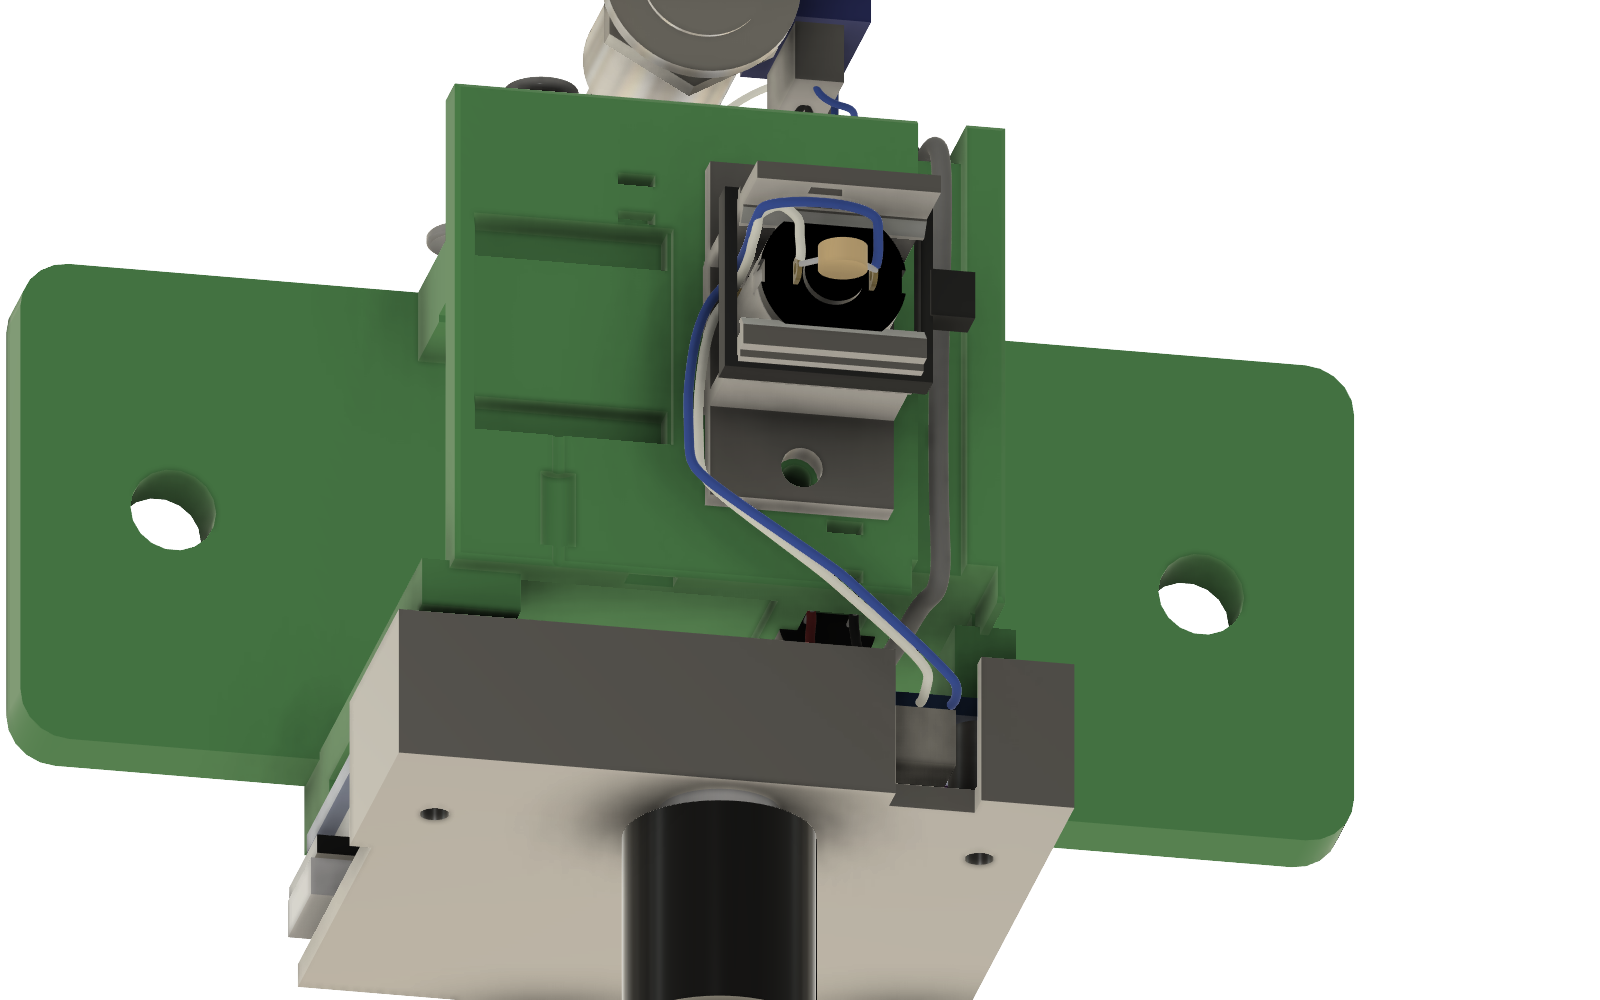
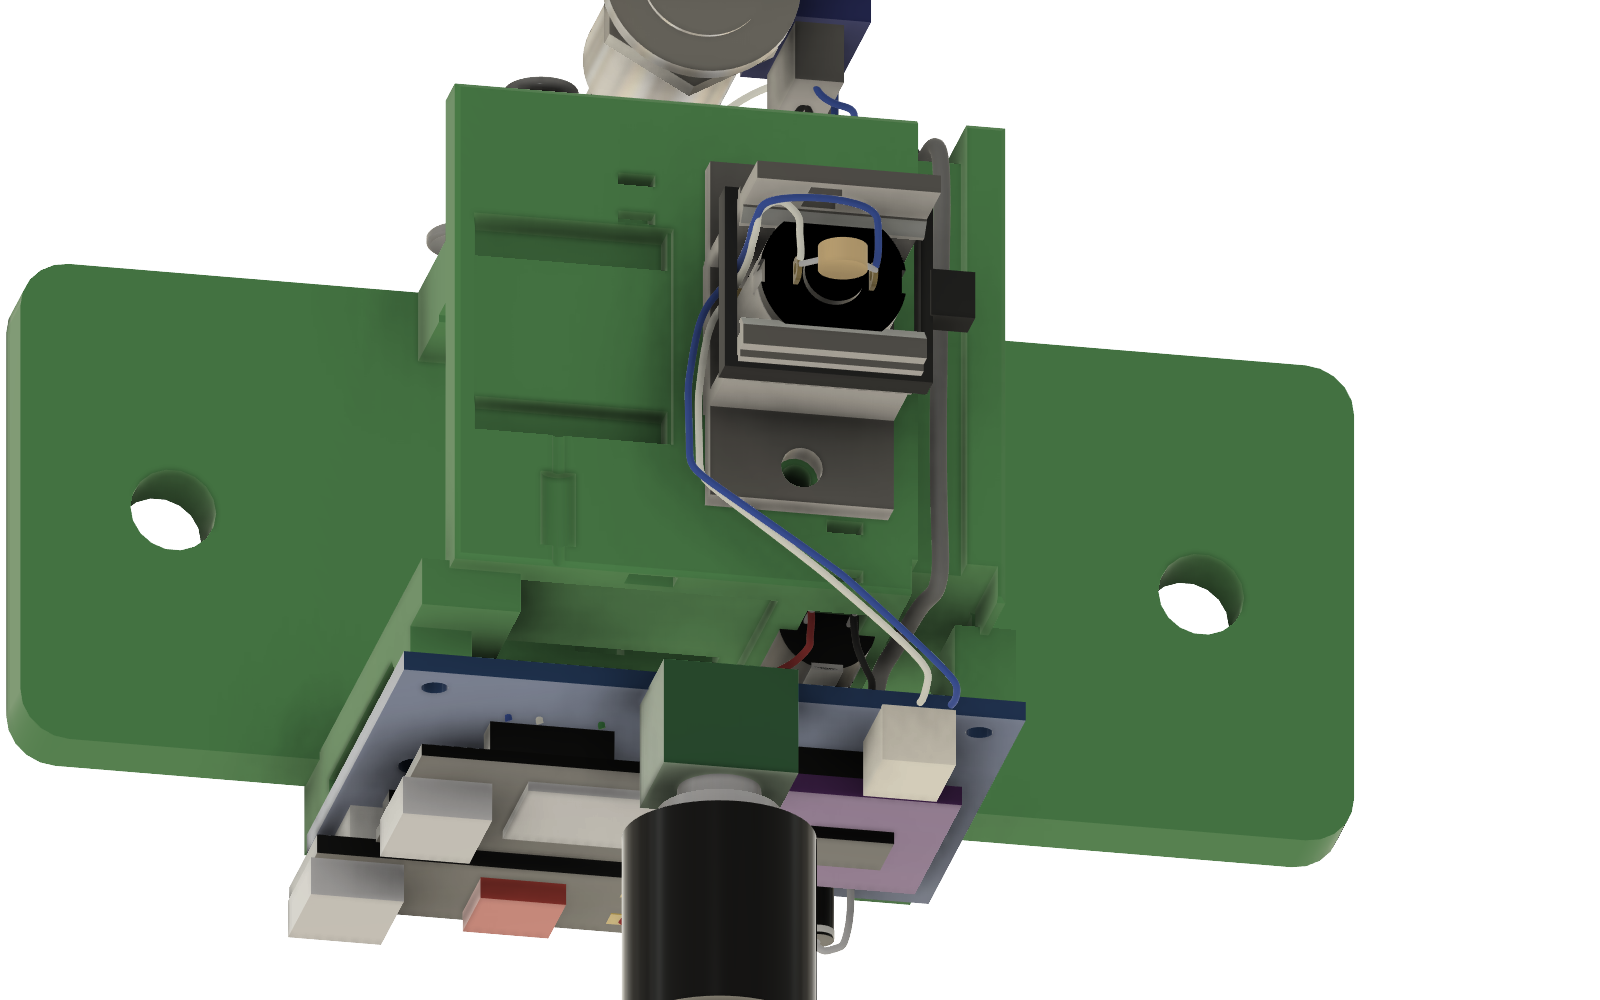
N20: all wiring 30 AWG stranded, in the colours on hand
Every wire, including the motor pair, power jumpers and underside links,
is now 30 AWG stranded (0.6 mm in wires.py). W5, W12, W13 and W21 are
green, blue, white and yellow. wiring.md adds tinning, flat-link and
current notes. The motor pair sits flat on the cartridge's wire clamp;
cut lengths are unchanged. Hole map and wire renders redone.

diff --git a/drives/n20/cad/fusion/wires.py b/drives/n20/cad/fusion/wires.py
@@ -22,8 +22,8 @@ COLORS = {
     'blue': (40, 90, 205), 'gray': (120, 120, 120), 'tan': (214, 184, 130), 'tin': (195, 195, 200),
 }
 
-# name, color, diameter mm, waypoints (mm)
-BUNDLE_TRUNK = ('Control harness to J3 (4 x 30 AWG)', 'gray', 1.6, 'raw', [
+# name, color, diameter mm, waypoints (mm). All wire is 30 AWG stranded, about 0.6 mm over the insulation.
+BUNDLE_TRUNK = ('Control harness to J3 (4 x 30 AWG)', 'gray', 1.4, 'raw', [
     (-6.75, 22.9, 23.0), (-6.75, 22.0, 21.6), (-6.9, 21.8, 18.0), (-7.0, 21.8, 4.0), (-7.6, 21.8, 0.0), (-10.0, 21.8, -2.2),
     (-11.3, 20.7, -2.6), (-11.5, 19.4, -4.2), (-11.6, 19.4, -6.4),
     (-11.8, 19.3, -8.4), (-12.0, 18.0, -9.35), (-12.0, 5.0, -9.35), (-12.0, -15.0, -9.35), (-12.0, -18.2, -9.3),
@@ -51,23 +51,23 @@ PD_P, PD_N = W(-16.5, 0.3, 4.7), W(-11.0, 0.3, 4.7)       # U1's + and - pads (s
 
 WIRES = [
     # --- power: U1's pads down to the buses (5V row 7, GND row 8); C1 from its seat in behind to C7 / B4
-    ('W1 U1 + to 5V bus (A7)', 'red', 0.8, [PD_P, W(-16.0, -1.8, 5.2), W(-14.6, -4.2, 2.6), hole('A', 7, 0.9), hole('A', 7, -0.8)]),
-    ('W2 U1 GND to GND bus (A8)', 'black', 0.8, [PD_N, W(-12.0, -1.6, 5.2), W(-13.4, -2.4, 2.6), hole('A', 8, 0.9), hole('A', 8, -0.8)]),
-    ('L1 C1 + to 5V bus (C7)', 'red', 0.8, [(-2.75, -19.78, -3.1), (-2.75, -21.6, -3.15), (-2.4, -23.6, -3.6), (0.22, -24.8, -1.0),
+    ('W1 U1 + to 5V bus (A7)', 'red', 0.6, [PD_P, W(-16.0, -1.8, 5.2), W(-14.6, -4.2, 2.6), hole('A', 7, 0.9), hole('A', 7, -0.8)]),
+    ('W2 U1 GND to GND bus (A8)', 'black', 0.6, [PD_N, W(-12.0, -1.6, 5.2), W(-13.4, -2.4, 2.6), hole('A', 8, 0.9), hole('A', 8, -0.8)]),
+    ('L1 C1 + to 5V bus (C7)', 'red', 0.6, [(-2.75, -19.78, -3.1), (-2.75, -21.6, -3.15), (-2.4, -23.6, -3.6), (0.22, -24.8, -1.0),
         (0.22, -24.8, 22.3), back('C', 7, -1.0), hole('C', 7, 0.4)]),
-    ('L2 C1 - to GND (B4)', 'black', 0.8, [(-6.25, -19.78, -3.1), (-6.3, -21.6, -3.2), (-6.6, -23.6, -3.8), (-8.4, -24.8, -1.0),
+    ('L2 C1 - to GND (B4)', 'black', 0.6, [(-6.25, -19.78, -3.1), (-6.3, -21.6, -3.2), (-6.6, -23.6, -3.8), (-8.4, -24.8, -1.0),
         (-8.4, -24.8, 24.8), back('B', 4, -1.0), hole('B', 4, 0.4)]),
     # --- D1 standing at A3 (anode down), band up; its cathode lead bends over and down into A2
     ('D1 anode lead to A3', 'tin', 0.6, [hole('A', 3, 1.0), hole('A', 3, -0.8)]),
     ('D1 cathode lead to A2', 'tin', 0.6, [hole('A', 3, 6.2), hole('A', 3, 7.0), W(cu('A'), rv(2.5), 7.0), hole('A', 2, 6.0), hole('A', 2, -0.8)]),
     # --- motor pair: J4 (side entry, mouth toward -Z) -> notch in the cover's bottom wall -> under the base's -Y edge
     #     -> the motor's +x side inside the arms' zip tie -> the wire clamp -> the tabs
-    ('W14 J4 pin 1 (OUT3) to motor +', 'white', 0.8, [W(26.4, rv(3), 2.4), W(29.0, rv(3), 2.4), (-9.9, -29.0, -15.0), (-2.0, -22.0, -15.0),
-        (8.8, -14.0, -15.0), (9.0, -7.0, -15.2), (8.2, -1.0, -15.8), (6.7, 1.2, -17.0), (6.7, 1.2, -24.0), (6.7, 2.6, -26.6), (6.4, 4.4, -27.9),
-        (3.6, 4.4, -27.9), (3.1, 1.8, -27.4), (3.1, 0.4, -26.8)]),
-    ('W15 J4 pin 2 (OUT4) to motor -', 'blue', 0.8, [W(26.4, rv(2), 2.4), W(29.6, rv(2), 2.4), (-11.3, -29.6, -15.8), (-2.8, -22.0, -15.9),
-        (9.8, -13.6, -15.9), (10.0, -6.4, -16.0), (9.0, -0.4, -16.6), (6.7, 2.6, -17.8), (6.7, 2.6, -24.0), (6.9, 3.4, -27.0), (6.2, 4.4, -28.9),
-        (-2.6, 4.4, -28.9), (-3.1, 2.2, -28.4), (-3.1, 0.4, -26.8)]),
+    ('W14 J4 pin 1 (OUT3) to motor +', 'white', 0.6, [W(26.4, rv(3), 2.4), W(29.0, rv(3), 2.4), (-9.9, -29.0, -15.0), (-2.0, -22.0, -15.0),
+        (8.8, -14.0, -15.0), (9.0, -7.0, -15.2), (8.2, -1.0, -15.8), (6.7, 1.2, -17.0), (6.7, 1.2, -24.0), (6.7, 2.6, -26.6), (6.4, 4.8, -27.9),
+        (3.6, 4.8, -27.9), (3.1, 1.8, -27.4), (3.1, 0.4, -26.8)]),
+    ('W15 J4 pin 2 (OUT4) to motor -', 'blue', 0.6, [W(26.4, rv(2), 2.4), W(29.6, rv(2), 2.4), (-11.3, -29.6, -15.8), (-2.8, -22.0, -15.9),
+        (9.8, -13.6, -15.9), (10.0, -6.4, -16.0), (9.0, -0.4, -16.6), (6.7, 2.6, -17.8), (6.7, 2.6, -24.0), (6.9, 3.4, -27.0), (6.2, 4.7, -28.9),
+        (-2.6, 4.7, -28.9), (-3.1, 2.2, -28.4), (-3.1, 0.4, -26.8)]),
     # --- control harness, mount side: trunk end on the -Y face, behind the perfboard, in from the underside
     ('W10 GPIO0 (I15) to J3 pin 1 (rev)', 'blue', 0.6, [(-6.0, -21.9, 13.5), (-3.0, -22.0, 13.4), (8.0, -22.6, 9.8), (17.0, -23.6, 5.4), (19.4, -24.6, 4.2), back('I', 15, -1.0), hole('I', 15, 0.4)]),
     ('W9 GPIO3 (I12) to J3 pin 3 (fwd)', 'green', 0.6, [(-6.0, -22.1, 13.9), (-3.0, -22.6, 13.0), (4.0, -23.4, 9.0), (9.6, -23.8, 5.2), (11.8, -24.8, 4.2), back('I', 12, -1.0), hole('I', 12, 0.4)]),
@@ -82,12 +82,12 @@ LINKS = [
     ('W18 GND bus (B8) to DRV GND (C4)', 'black', 0.6, L4(('B', 8), lane('B', 1.27), ('C', 4))),
     ('W4 GND bus (C8) to Super Mini GND (C16)', 'black', 0.6, L4(('C', 8), lane('B', 0.6), ('C', 16))),
     ('W17 D1 cathode (B2) to Super Mini 5V (C17)', 'red', 0.6, L4(('B', 2), lane('B', 1.9), ('C', 17), 1)),
-    ('W5 GPIO18 (C12) to DRV IN3 (C5)', 'orange', 0.6, L4(('C', 12), lane('C', 0.6), ('C', 5))),
-    ('W12 GPIO20 (C14) to DRV IN4 (C6)', 'brown', 0.6, L4(('C', 14), lane('C', 1.27), ('C', 6))),
-    ('W13 GPIO19 (C13) to DRV EEP (J6)', 'gray', 0.6, link([('C', 13), (lane('C', 1.9), 12.6), (lane('C', 1.9), 6.5), (cu('J'), 6.5), ('J', 6)])),
+    ('W5 GPIO18 (C12) to DRV IN3 (C5)', 'green', 0.6, L4(('C', 12), lane('C', 0.6), ('C', 5))),
+    ('W12 GPIO20 (C14) to DRV IN4 (C6)', 'blue', 0.6, L4(('C', 14), lane('C', 1.27), ('C', 6))),
+    ('W13 GPIO19 (C13) to DRV EEP (J6)', 'white', 0.6, link([('C', 13), (lane('C', 1.9), 12.6), (lane('C', 1.9), 6.5), (cu('J'), 6.5), ('J', 6)])),
     ('W19 RV1 wiper (I9) to GPIO2 (I13)', 'yellow', 0.6, L4(('I', 9), lane('I', 1.0), ('I', 13))),
     ('W20 GND (A16) to RV1 pin 1 (I8)', 'black', 0.6, link([('A', 16), (lane('A', -0.9), 15.65), (lane('A', -0.9), 7.25), (lane('I', 0.5), 7.25), ('I', 8)], 1)),
-    ('W21 3V3 (A15) to RV1 pin 3 (I10)', 'violet', 0.6, link([('A', 15), (lane('A', 0.7), 14.5), (lane('A', 0.7), 10.6), (lane('I', -0.6), 10.6), ('I', 10)], 1)),
+    ('W21 3V3 (A15) to RV1 pin 3 (I10)', 'yellow', 0.6, link([('A', 15), (lane('A', 0.7), 14.5), (lane('A', 0.7), 10.6), (lane('I', -0.6), 10.6), ('I', 10)], 1)),
 ]
 
 # pod side: from the JST-PH header tails (x -6.75, y 38.1; pin 1 at z 17.9 .. pin 6 at z 27.9) to the controls.

diff --git a/drives/n20/docs/wiring.md b/drives/n20/docs/wiring.md
@@ -92,7 +92,7 @@ At the motor, the wires are held right next to the terminals, so tugging or vibr
 
 1. Solder W14, W15 and C2 to the terminals.
 2. Lead both wires toward the +Y arm, then along the inside face of the clamp plate toward the motor's round +X side, and up between the arms.
-3. Put a zip tie in through one slot, out through the other, and round both wires on the plate's inside face. Pull it tight.
+3. Put a zip tie in through one slot, out through the other, and round both wires on the plate's inside face. Lay the two wires side by side across the 1.4 mm bar between the slots, so the tie presses both flat against the plate. Pull it tight.
 
 The tie bar sits about 5 mm from the terminals. Leave a little slack between the tie and each terminal, so the wire bends there and not at the joint.
 
@@ -102,25 +102,31 @@ The tie bar sits about 5 mm from the terminals. Leave a little slack between the
 
 ## Point-to-point wire list
 
+Every wire is **30 AWG stranded**, in six colours: red for +5V, black for GND, and green, blue, white and yellow for signals (yellow is also the knob's 3.3 V end, W21).
+
+- **Tin the stripped ends** before pushing them through the perfboard's holes, so the strands don't splay or break off.
+- **Keep the underside links flat** against the board, and press each one down along its lane before soldering the next.
+- **Current is fine.** 30 AWG is about 0.34 Ω per metre: about 30 mV drop on a 100 mm run at 1 A. The wires that carry motor current are W14 and W15, and on the 5 V and ground paths W1, W2, W16 and W18; L1 and L2 carry only C1's surges, and W17 only the Super Mini's own current). Check your N20's stall current on its datasheet. The DRV8833 limits a channel to about 1.5 A, and 30 AWG handles a 1 A stall for the moment it lasts. If your motor stalls above 1 A, double up those six wires.
+
 Follow this table one wire at a time and tick each off. The colours match the 3D model. The links on the perfboard's underside are listed in [perfboard.md](perfboard.md#links-underside), and their cut lengths are in the cut list below. Wires that come from the mount (L1, L2, W6, W9, W10, W11) go into the perfboard **from the underside** and are soldered on the component side.
 
 | Wire | Colour | From | To | Notes |
 |---|---|---|---|---|
-| **Power, 22–26 AWG** | | | | |
+| **Power** | | | | |
 | W1 | red | U1 + pad | perfboard A7 (5V bus) | Short jumper on the component side. |
 | W2 | black | U1 − pad | perfboard A8 (GND bus) | Short jumper on the component side. |
 | L1 | red | C1 + (long leg) | perfboard C7 (5V bus) | Up the −Y face behind the board, in from the underside. |
 | L2 | black | C1 − (stripe side) | perfboard B4 (GND) | Beside L1. Reversed polarity damages the capacitor. |
-| **Motor, 22–26 AWG** | | | | |
+| **Motor** | | | | |
 | W14 | white | J4 pin 1 (OUT3) | M1 terminal (either) | Out of the cover's bottom notch, under the base's −Y edge, down the motor's open side inside the arms' zip tie, then the clamp. If the motor runs backwards, swap the two pins in the PHR-2 housing. |
 | W15 | blue | J4 pin 2 (OUT4) | M1 other terminal | Beside W14, then along the clamp's tie bar and behind the end cap, inside the snap hooks, to the far terminal. |
 | C2 | — | M1 terminal | M1 other terminal | Solder its legs to the terminals with the wires. |
-| **Control harness, mount side, 30 AWG: perfboard (from behind) → −Y face → base tunnel → J3 housing** | | | | |
+| **Control harness, mount side: perfboard (from behind) → −Y face → base tunnel → J3 housing** | | | | |
 | W6 | white | perfboard I14 (GPIO1) | J3 pin 6 | |
 | W9 | green | perfboard I12 (GPIO3) | J3 pin 3 | |
 | W10 | blue | perfboard I15 (GPIO0) | J3 pin 1 | |
 | W11 | black | perfboard A4 (GND) | J3 pin 2 | |
-| **Pod side, 30 AWG** | | | | |
+| **Pod side** | | | | |
 | W10p | blue | J3 pin 1 | SW1 lug B (reverse) | |
 | W11p | black | J3 pin 2 | SW1 centre lug | Ground for the whole pod. |
 | W9p | green | J3 pin 3 | SW1 lug A (forward) | |
@@ -163,30 +169,30 @@ Lengths are measured along the routes in the 3D model, plus 15% slack and 5 mm p
 
 | Wire | Colour | Gauge | Routed | **Cut** |
 |---|---|---|---|---|
-| W1 | red | 22–26 AWG | 10 mm | **25** |
-| W2 | black | 22–26 AWG | 9 mm | **20** |
-| L1 | red | 22–26 AWG | 35 mm | **50** |
-| L2 | black | 22–26 AWG | 37 mm | **55** |
-| W14 | white | 22–26 AWG | 62 mm | **85** |
-| W15 | blue | 22–26 AWG | 72 mm | **95** |
-| W6 | white | 30 AWG | 130 mm | **160** |
-| W9 | green | 30 AWG | 126 mm | **155** |
-| W10 | blue | 30 AWG | 133 mm | **165** |
-| W11 | black | 30 AWG | 121 mm | **150** |
-| W4 | black | 30 AWG solid | 22 mm | **40** |
-| W5 | orange | 30 AWG solid | 18 mm | **35** |
-| W12 | brown | 30 AWG solid | 21 mm | **35** |
-| W13 | gray | 30 AWG solid | 39 mm | **55** |
-| W16 | red | 30 AWG solid | 11 mm | **25** |
-| W17 | red | 30 AWG solid | 39 mm | **60** |
-| W18 | black | 30 AWG solid | 11 mm | **25** |
-| W19 | yellow | 30 AWG solid | 11 mm | **25** |
-| W20 | black | 30 AWG solid | 51 mm | **70** |
-| W21 | violet | 30 AWG solid | 37 mm | **55** |
+| W1 | red | 30 AWG stranded | 10 mm | **25** |
+| W2 | black | 30 AWG stranded | 9 mm | **20** |
+| L1 | red | 30 AWG stranded | 35 mm | **50** |
+| L2 | black | 30 AWG stranded | 37 mm | **55** |
+| W14 | white | 30 AWG stranded | 63 mm | **85** |
+| W15 | blue | 30 AWG stranded | 73 mm | **95** |
+| W6 | white | 30 AWG stranded | 130 mm | **160** |
+| W9 | green | 30 AWG stranded | 126 mm | **155** |
+| W10 | blue | 30 AWG stranded | 133 mm | **165** |
+| W11 | black | 30 AWG stranded | 121 mm | **150** |
+| W4 | black | 30 AWG stranded | 22 mm | **40** |
+| W5 | green | 30 AWG stranded | 18 mm | **35** |
+| W12 | blue | 30 AWG stranded | 21 mm | **35** |
+| W13 | white | 30 AWG stranded | 39 mm | **55** |
+| W16 | red | 30 AWG stranded | 11 mm | **25** |
+| W17 | red | 30 AWG stranded | 39 mm | **60** |
+| W18 | black | 30 AWG stranded | 11 mm | **25** |
+| W19 | yellow | 30 AWG stranded | 11 mm | **25** |
+| W20 | black | 30 AWG stranded | 51 mm | **70** |
+| W21 | yellow | 30 AWG stranded | 37 mm | **55** |
 | W6p | button lead | pre-wired | 30 mm | **trim to 45** |
-| W9p | green | 30 AWG | 27 mm | **45** |
-| W10p | blue | 30 AWG | 29 mm | **45** |
-| W11p | black | 30 AWG | 28 mm | **45** |
+| W9p | green | 30 AWG stranded | 27 mm | **45** |
+| W10p | blue | 30 AWG stranded | 29 mm | **45** |
+| W11p | black | 30 AWG stranded | 28 mm | **45** |
 | J1 | button lead | pre-wired | 21 mm | **trim to 35** |
 
 ## Why it's wired this way

diff --git a/drives/n20/docs/perfboard.md b/drives/n20/docs/perfboard.md
@@ -79,7 +79,7 @@ Under U1, rows 9–17 in columns A–C are used only from the underside: the lin
 
 ## Links (underside)
 
-Ten links of insulated 30 AWG solid wire run on the underside (solder side), each from hole to hole. They take over the jobs of the old loose wires W4, W5, W12 and W13 and of the pod-side knob wires, and add the power links.
+Ten links of 30 AWG stranded wire, ends tinned, run on the underside (solder side), each from hole to hole. They take over the jobs of the old loose wires W4, W5, W12 and W13 and of the pod-side knob wires, and add the power links.
 
 | Link | Colour | From | To | Job | Cut |
 |---|---|---|---|---|---|
@@ -87,14 +87,14 @@ Ten links of insulated 30 AWG solid wire run on the underside (solder side), eac
 | W18 | black | B8 (GND bus) | C4 (DRV GND) | GND to the motor driver | 25 mm |
 | W4 | black | C8 (GND bus) | C16 (Super Mini GND) | GND to the Super Mini | 40 mm |
 | W17 | red | B2 (D1 cathode) | C17 (Super Mini 5V) | +5V to the Super Mini, through D1 | 60 mm |
-| W5 | orange | C12 (GPIO18) | C5 (IN3) | MOT_IN1, forward PWM | 35 mm |
-| W12 | brown | C14 (GPIO20) | C6 (IN4) | MOT_IN2, reverse PWM | 35 mm |
-| W13 | gray | C13 (GPIO19) | J6 (EEP) | DRV_SLEEP | 55 mm |
+| W5 | green | C12 (GPIO18) | C5 (IN3) | MOT_IN1, forward PWM | 35 mm |
+| W12 | blue | C14 (GPIO20) | C6 (IN4) | MOT_IN2, reverse PWM | 35 mm |
+| W13 | white | C13 (GPIO19) | J6 (EEP) | DRV_SLEEP | 55 mm |
 | W19 | yellow | I9 (RV1 wiper) | I13 (GPIO2) | SPEED | 25 mm |
 | W20 | black | A16 (GND) | I8 (RV1 pin 1) | GND end of the knob | 70 mm |
-| W21 | violet | A15 (3V3) | I10 (RV1 pin 3) | 3V3 end of the knob, 3.3 V only | 55 mm |
+| W21 | yellow | A15 (3V3) | I10 (RV1 pin 3) | 3V3 end of the knob, 3.3 V only | 55 mm |
 
-The cut lengths come from the routes in the 3D model, worked out the same way as every wire in the [cut list](cut-list.csv); trim each one to fit on the board. W17, W20 and W21 cross other links; keep them flat against the board.
+The cut lengths come from the routes in the 3D model, worked out the same way as every wire in the [cut list](cut-list.csv); trim each one to fit on the board. W17, W20 and W21 cross other links. Keep every link flat against the board: stranded wire springs up more than solid. W21 is yellow like W19, the wiper link, but not red, because red means 5 V on this board.
 
 ## Where it goes
 

diff --git a/drives/n20/README.md b/drives/n20/README.md
@@ -45,7 +45,7 @@ A version of the drive built around a 6 V N20 metal gearmotor and a DRV8833 moto
 | J4 | 1 | JST-PH 2.0 mm 2-pin, side entry: S2B-PH-K-S header, PHR-2 housing, 2 crimp contacts | Rev C. The motor plug. |
 | — | 3 | **M2 × 20** pan-head screws | Rev C. Cover and perfboard to the supports on the −Y face. |
 | — | 2 | Double-sided foam pads, 3 mm thick, about 10 × 4 mm | Rev C. Hold the PD board on the perfboard. |
-| — | — | 30 AWG solid insulated wire | Rev C. The ten links on the perfboard's underside. |
+| — | — | 30 AWG stranded hook-up wire in red, black, green, blue, white and yellow | Rev C. Every wire in the drive, including the motor pair and the underside links; see the [cut list](docs/wiring.md#cut-list). |
 | — | — | Hot glue or CA | A dab to hold D1 in its channel and the J3 header in its holder. |
 
 ## Wiring plan
